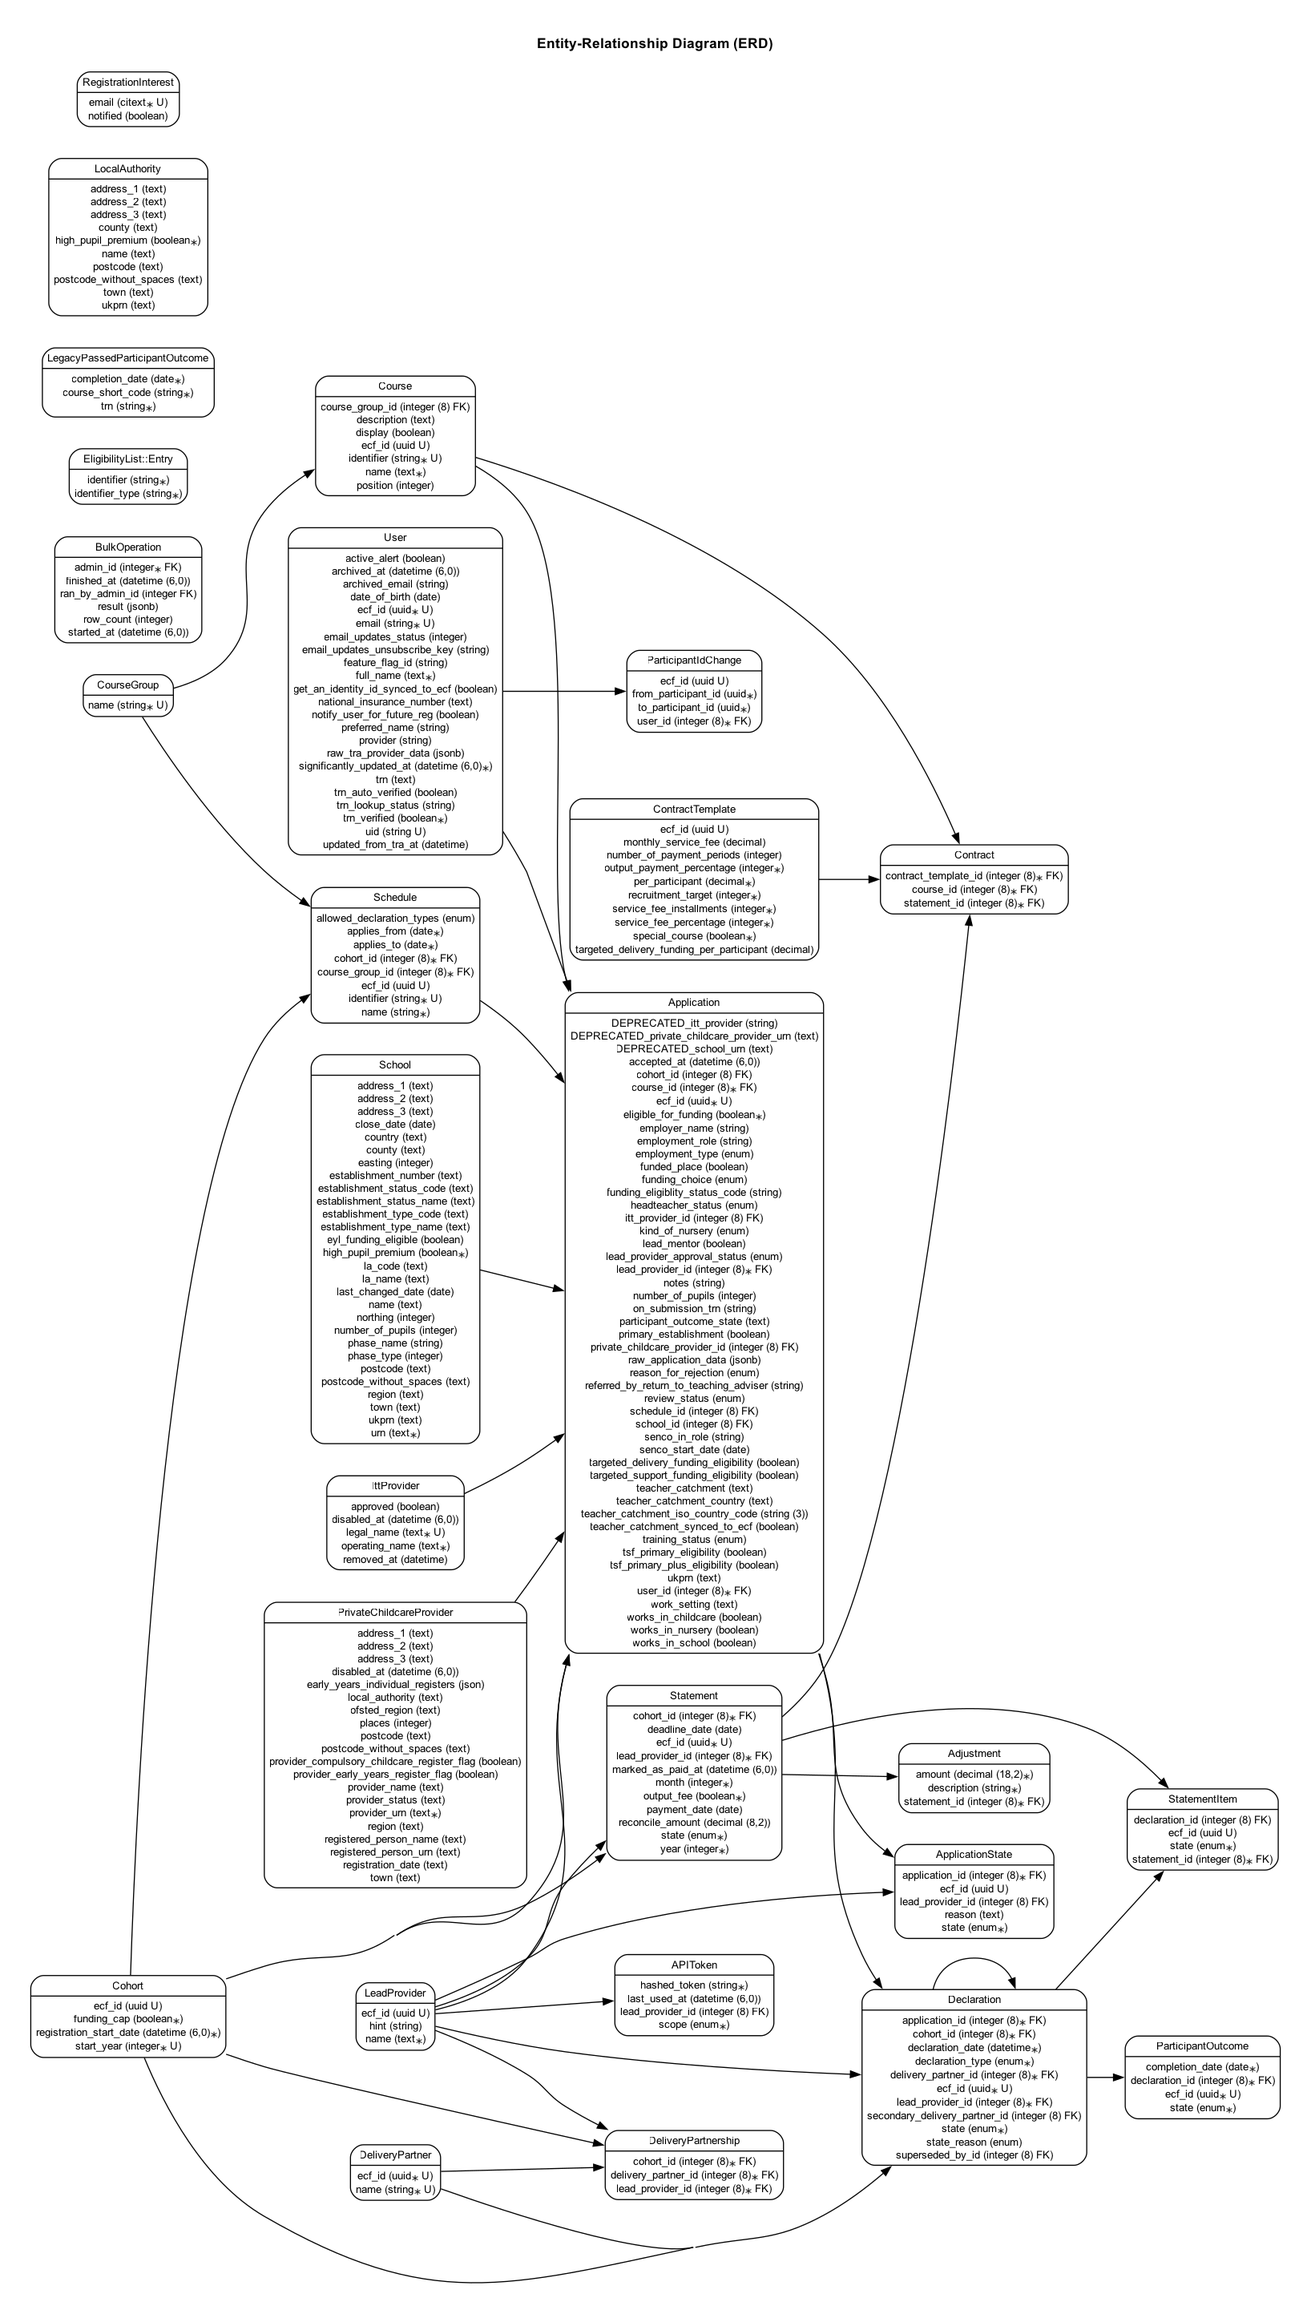
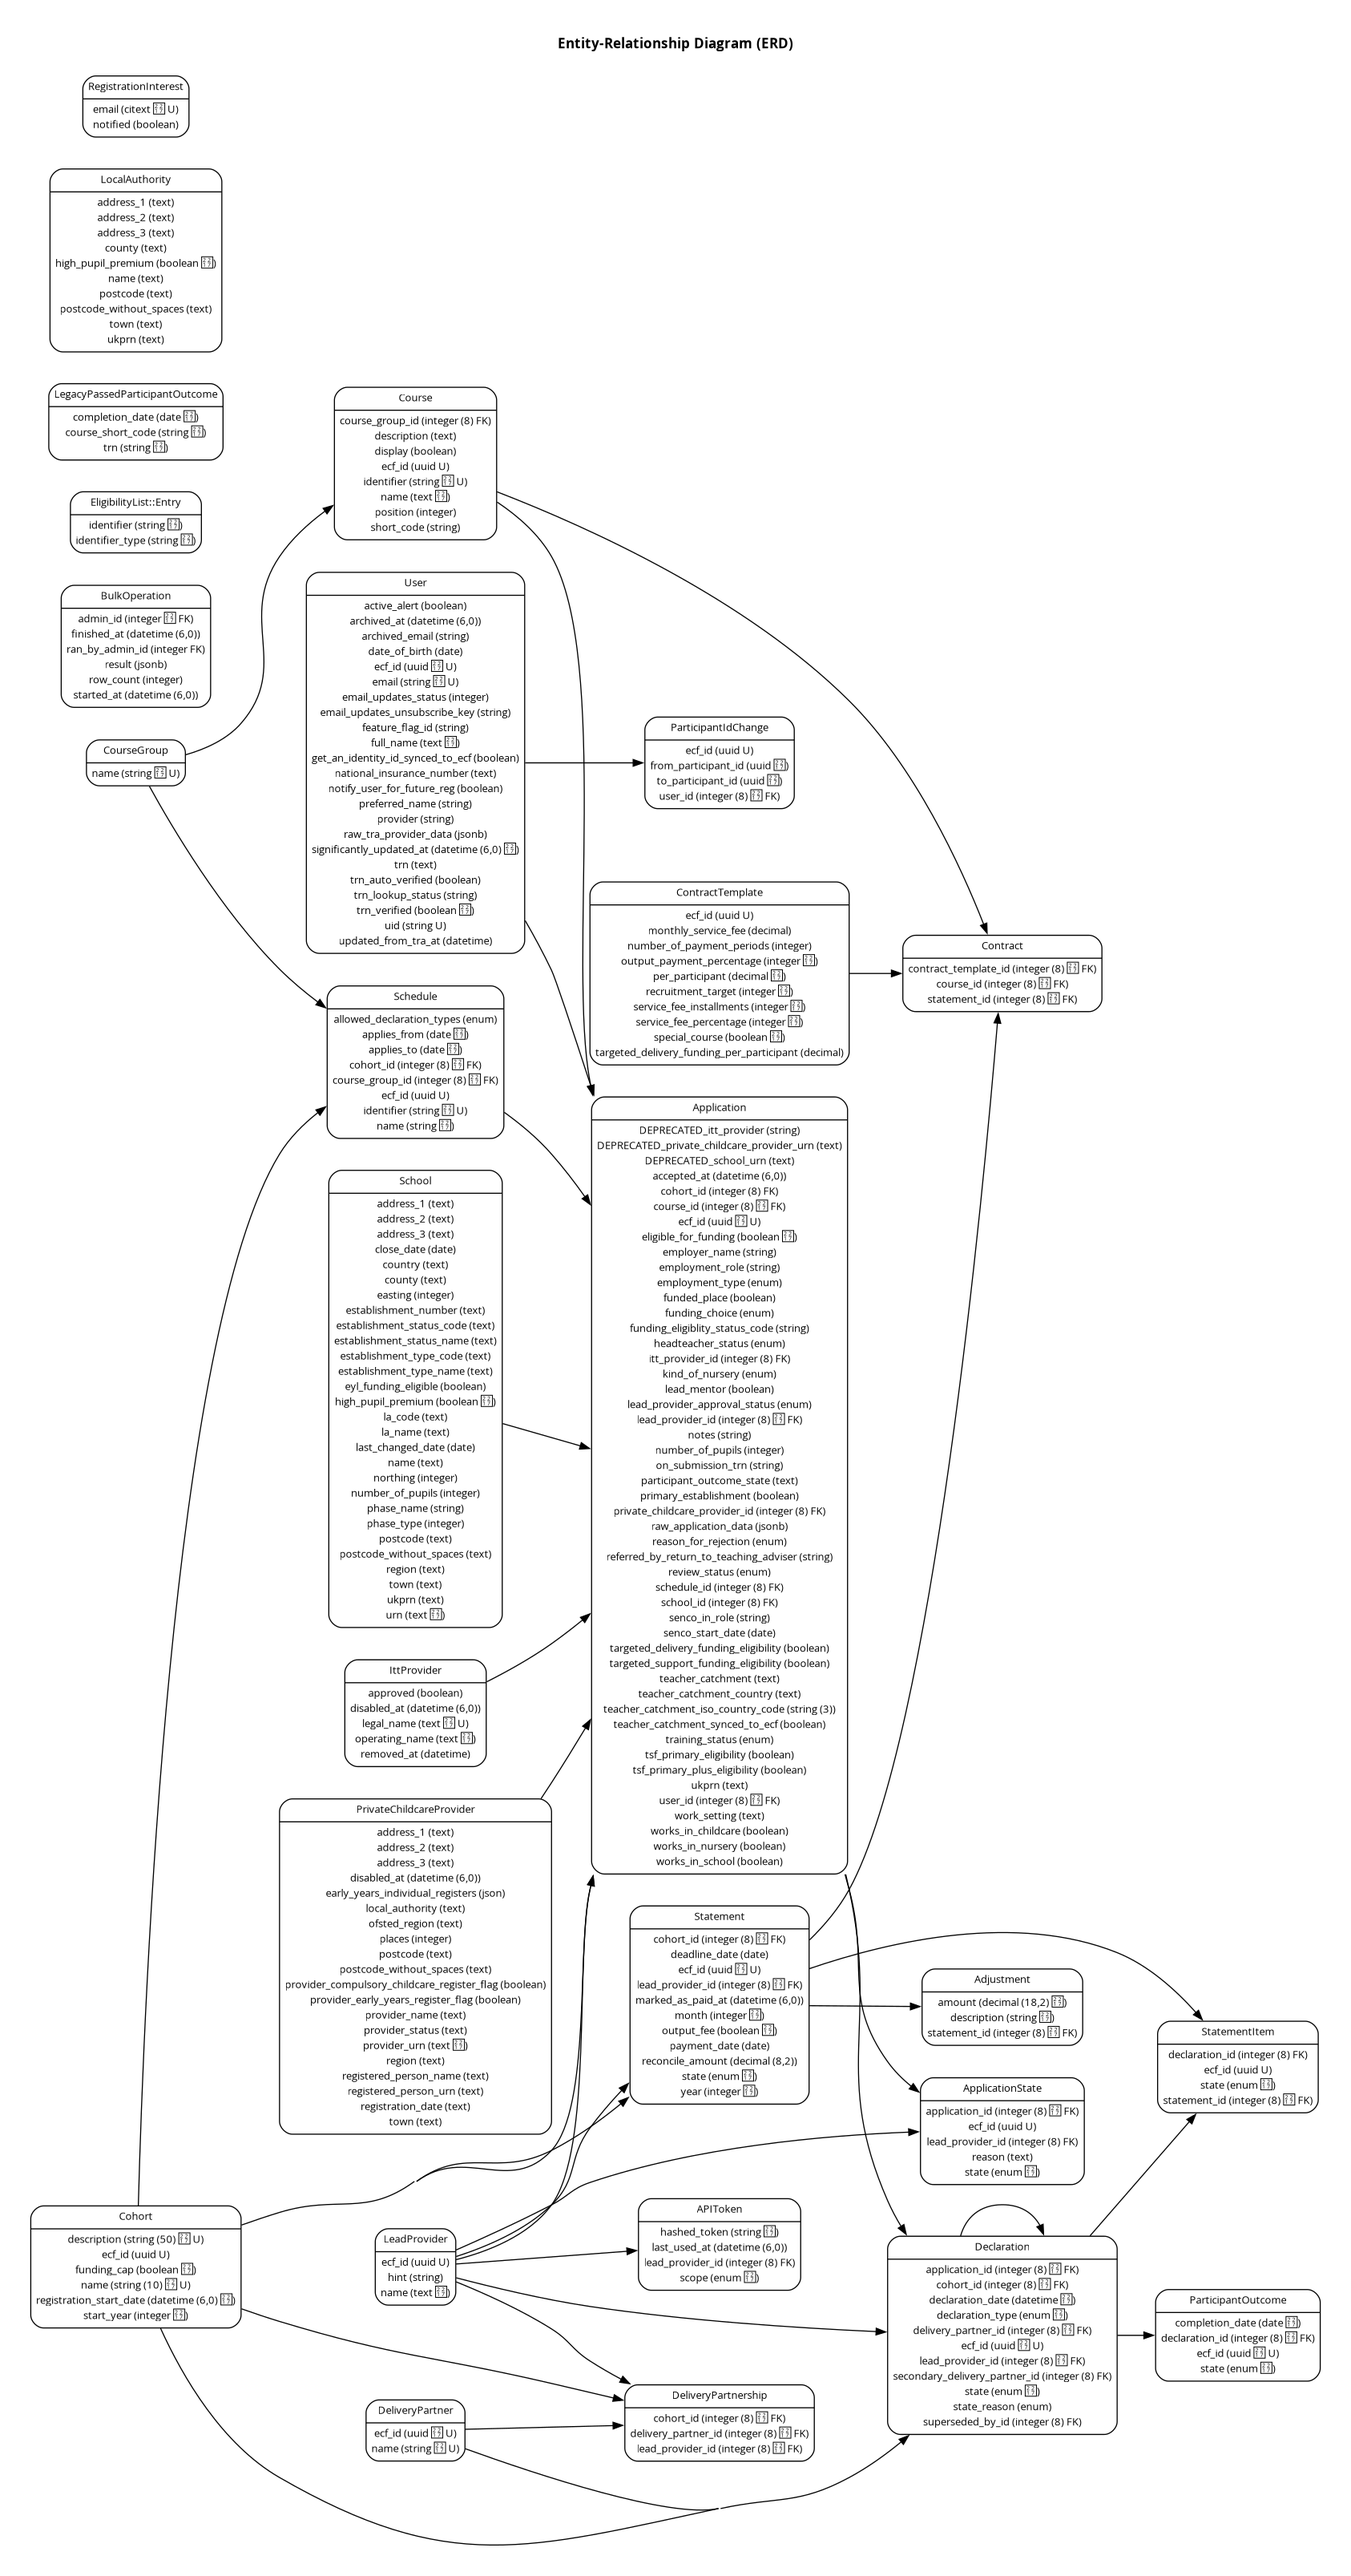
[CPDNPQ-3128] Added cohort names and descriptions

diff --git a/spec/features/npq_separation/admin/cohorts_spec.rb b/spec/features/npq_separation/admin/cohorts_spec.rb
@@ -36,6 +36,8 @@ RSpec.feature "Managing cohorts", :ecf_api_disabled, type: :feature do
     expect(page).to have_css("h1", text: "Cohort 2026 to 2027")
 
     within(".govuk-summary-list") do |summary_list|
+      expect(summary_list).to have_summary_item("Name", "2026")
+      expect(summary_list).to have_summary_item("Description", "2026 to 2027")
       expect(summary_list).to have_summary_item("Start year", "2026")
       expect(summary_list).to have_summary_item("Registration start date", "3 April 2026")
       expect(summary_list).to have_summary_item("Funding cap", "Yes")
@@ -52,6 +54,8 @@ RSpec.feature "Managing cohorts", :ecf_api_disabled, type: :feature do
       visit_index
       click_on new_button_text
 
+      fill_in "Name", with: "2029"
+      fill_in "Description", with: "2029 to 2030"
       fill_in "Start year", with: "2029"
       check "Funding cap", visible: :all
       fill_in "Day", with: "2"
@@ -63,6 +67,8 @@ RSpec.feature "Managing cohorts", :ecf_api_disabled, type: :feature do
       end
 
       cohort = Cohort.order(created_at: :desc, id: :desc).first
+      expect(cohort.name).to eq("2029")
+      expect(cohort.description).to eq("2029 to 2030")
       expect(cohort.start_year).to be(2029)
       expect(cohort.funding_cap).to be(true)
       expect(cohort.registration_start_date).to eq(Date.new(2029, 3, 2))
@@ -75,6 +81,8 @@ RSpec.feature "Managing cohorts", :ecf_api_disabled, type: :feature do
       navigate_to_cohort
       click_on edit_button_text
 
+      fill_in "Name", with: "2025"
+      fill_in "Description", with: "2025 to 2026"
       fill_in "Start year", with: "2025"
       check "Funding cap", visible: :all
       fill_in "Day", with: "6"
@@ -85,6 +93,8 @@ RSpec.feature "Managing cohorts", :ecf_api_disabled, type: :feature do
       expect(page).to have_text("Cohort updated")
 
       cohort.reload
+      expect(cohort.name).to eq("2025")
+      expect(cohort.description).to eq("2025 to 2026")
       expect(cohort.start_year).to be(2025)
       expect(cohort.funding_cap).to be(true)
       expect(cohort.registration_start_date.to_date).to eq(Date.new(2025, 5, 6))

diff --git a/spec/models/cohort_spec.rb b/spec/models/cohort_spec.rb
@@ -45,14 +45,18 @@ RSpec.describe Cohort, type: :model do
               .is_less_than(2030),
           )
       }
+    end
 
-      it "validates uniqueness of start_year" do
-        existing_cohort = create :cohort, start_year: 2025
-        new_cohort = Cohort.new(start_year: existing_cohort.start_year)
+    describe "#name" do
+      it { is_expected.to validate_presence_of(:name) }
+      it { is_expected.to validate_uniqueness_of(:name).case_insensitive }
+      it { is_expected.to validate_length_of(:name).is_at_most(10) }
+    end
 
-        new_cohort.valid?
-        expect(new_cohort.errors[:start_year]).to include("has already been taken")
-      end
+    describe "#description" do
+      it { is_expected.to validate_presence_of(:description) }
+      it { is_expected.to validate_uniqueness_of(:description).case_insensitive }
+      it { is_expected.to validate_length_of(:description).is_at_least(5).is_at_most(50) }
     end
 
     describe "changing funding_cap when there are applications" do
@@ -104,11 +108,5 @@ RSpec.describe Cohort, type: :model do
         expect { Cohort.current }.to raise_error(ActiveRecord::RecordNotFound)
       end
     end
-  end
-
-  describe "#name" do
-    subject { cohort.name }
-
-    it { is_expected.to eq cohort.start_year }
   end
 end

diff --git a/db/schema.rb b/db/schema.rb
@@ -10,7 +10,7 @@
 #
 # It's strongly recommended that you check this file into your version control system.
 
-ActiveRecord::Schema[7.2].define(version: 2025_10_02_113306) do
+ActiveRecord::Schema[7.2].define(version: 2025_10_17_103425) do
   # These are extensions that must be enabled in order to support this database
   enable_extension "btree_gin"
   enable_extension "citext"
@@ -198,8 +198,12 @@ ActiveRecord::Schema[7.2].define(version: 2025_10_02_113306) do
     t.datetime "updated_at", null: false
     t.boolean "funding_cap", default: false, null: false
     t.uuid "ecf_id"
+    t.string "name", limit: 10, null: false
+    t.string "description", limit: 50, null: false
+    t.index ["description"], name: "index_cohorts_on_description", unique: true
     t.index ["ecf_id"], name: "index_cohorts_on_ecf_id", unique: true
-    t.index ["start_year"], name: "index_cohorts_on_start_year", unique: true
+    t.index ["name"], name: "index_cohorts_on_name", unique: true
+    t.index ["start_year"], name: "index_cohorts_on_start_year"
   end
 
   create_table "contract_templates", force: :cascade do |t|

diff --git a/db/migrate/20251017103425_add_name_and_description_to_cohorts.rb b/db/migrate/20251017103425_add_name_and_description_to_cohorts.rb
@@ -1,0 +1,25 @@
+class AddNameAndDescriptionToCohorts < ActiveRecord::Migration[7.2]
+  def change
+    add_column :cohorts, :name, :string, limit: 10
+    add_column :cohorts, :description, :string, limit: 50
+
+    Cohort.find_each do |cohort|
+      cohort.update(name: cohort.start_year.to_s,
+                    description: "#{cohort.start_year} to #{cohort.start_year.next}")
+    end
+
+    safety_assured do
+      # the migration ensures non-null values are set for these columns prior
+      # to changing the columns to not allow null values
+      change_column_null :cohorts, :name, false
+      change_column_null :cohorts, :description, false
+
+      # Safe migrations insists on using :concurrently for adding the index but
+      # this cannot be used inside a transaction and there are less than 10 records
+      add_index :cohorts, :name, unique: true
+      add_index :cohorts, :description, unique: true
+      remove_index :cohorts, :start_year, unique: true
+      add_index :cohorts, :start_year
+    end
+  end
+end

diff --git a/app/models/cohort.rb b/app/models/cohort.rb
@@ -10,8 +10,17 @@ class Cohort < ApplicationRecord
             numericality: {
               greater_than_or_equal_to: 2021,
               less_than: 2030,
-            },
-            uniqueness: true
+            }
+
+  validates :name,
+            presence: true,
+            uniqueness: { case_sensitive: false },
+            length: { maximum: 10 }
+
+  validates :description,
+            presence: true,
+            uniqueness: { case_sensitive: false },
+            length: { within: 5..50 }
 
   validates :registration_start_date, presence: true
   validate :registration_start_date_matches_start_year
@@ -23,10 +32,6 @@ class Cohort < ApplicationRecord
     where(registration_start_date: ..timestamp)
       .order(start_year: :desc)
       .first!
-  end
-
-  def name
-    start_year
   end
 
 private

diff --git a/spec/requests/npq_separation/admin/cohorts_controller_spec.rb b/spec/requests/npq_separation/admin/cohorts_controller_spec.rb
@@ -6,8 +6,19 @@ RSpec.describe NpqSeparation::Admin::CohortsController, :ecf_api_disabled, type:
   subject { response }
 
   let(:cohort)         { create(:cohort) }
-  let(:valid_params)   { { cohort: { start_year: 2029, funding_cap: true, registration_start_date: "2029-03-02" } } }
-  let(:invalid_params) { { cohort: { start_year: 1066 } } }
+  let(:invalid_params) { valid_params.deep_merge(cohort: { start_year: 1066 }) }
+
+  let :valid_params do
+    {
+      cohort: {
+        start_year: 2029,
+        funding_cap: true,
+        registration_start_date: "2029-03-02",
+        name: "2029",
+        description: "2029 to 2030",
+      },
+    }
+  end
 
   context "when logged in as super admin" do
     before { sign_in_as_admin(super_admin: true) }

diff --git a/spec/factories/cohorts.rb b/spec/factories/cohorts.rb
@@ -3,9 +3,11 @@ FactoryBot.define do
     sequence(:start_year, 0) { |n| 2021 + n % 9 }
     registration_start_date { Date.new(start_year, 4, 3) }
     funding_cap { true }
+    name { start_year }
+    description { "#{start_year} to #{start_year.next}" }
 
     initialize_with do
-      Cohort.find_or_create_by(start_year:)
+      Cohort.find_or_create_by(name:)
     end
 
     trait :current do

diff --git a/app/controllers/npq_separation/admin/cohorts_controller.rb b/app/controllers/npq_separation/admin/cohorts_controller.rb
@@ -55,7 +55,13 @@ class NpqSeparation::Admin::CohortsController < NpqSeparation::AdminController
 private
 
   def cohort_params
-    params.require(:cohort).permit(:start_year, :registration_start_date, :funding_cap)
+    params.require(:cohort).permit(
+      :start_year,
+      :registration_start_date,
+      :funding_cap,
+      :name,
+      :description,
+    )
   end
 
   def cohort
